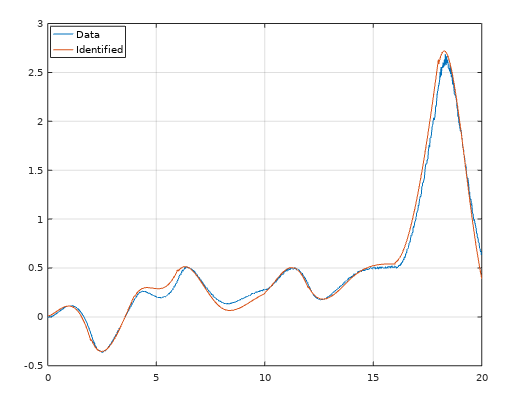
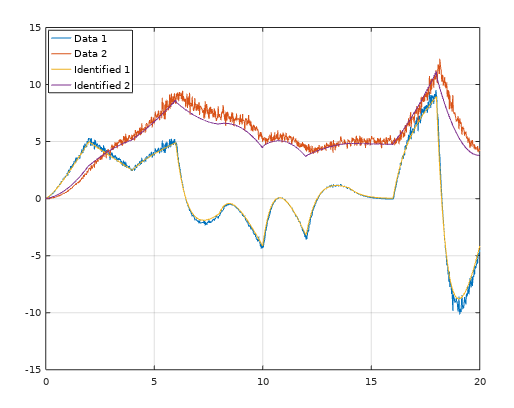
Mataveid 6.0

diff --git a/sourcecode/spa.m b/sourcecode/spa.m
@@ -38,7 +38,7 @@ function [amp, wout] = spa(varargin)
   
   plot(freq, Y)
   ylabel('Amplitude')
-  xlabel('Frequency [rad/s]')
+  xlabel('Frequency [Hz]')
   
   % Return values
   amp = 20*log10(Y);

diff --git a/README.md b/README.md
@@ -27,35 +27,45 @@ K = 0.01;
 R = 1;
 L = 0.5;
 
-A = [0 1 0
-    0 -b/J K/J
-    0 -K/L -R/L];
-B = [0 ; 0 ; 1/L];
-C = [1  0  0];
-D = [0];     
-delay = 0;
-
-%% Model
-motor_ss = ss(delay,A,B,C,D);
+% Matrix A
+A = [0 1  0  0; 
+    -K*R*L -(J+K+R*2) 0  1; 
+     0 0  0  1;
+     0 1 -(b+J) -5*(J+R*2)];
+  
+% Matrix B
+B = [0 0; 
+     1 0; 
+     0 0; 
+     0 1];
+  
+% Matrix C
+C = [0 1 0 0; 
+     0 0 1 0];
+ 
+%% Model 
+motor_ss = ss(0, A, B, C);
 
 %% Input and time
 t = linspace(0, 20, 1000);
-u = [linspace(5, -11, 100) linspace(7, 3, 100) linspace(-6, 9, 100) linspace(-7, 1, 100) linspace(2, 0, 100) linspace(6, -9, 100) linspace(4, 1, 100) linspace(0, 0, 100) linspace(10, 17, 100) linspace(-30, 0, 100)];
+u = [linspace(1, 11, 100) linspace(7, 3, 100) linspace(6, 9, 100) linspace(-7, -1, 100) linspace(2, -10, 100) linspace(6, -9, 100) linspace(4, 1, 100) linspace(0, 0, 100) linspace(10, 17, 100) linspace(-30, 0, 100)];
+u = [u;2*u]; % MIMO
 
 %% Simulation
 y = lsim(motor_ss, u, t);
 
-%% Add 5% noise
+%% Add 15% noise
 load v
-for i = 1:length(y)
-  noiseSigma = 0.05*y(i);
+for i = 1:length(y)-1
+  noiseSigma = 0.05*y(:, i);
   noise = noiseSigma*v(i); % v = noise, 1000 samples -1 to 1
-  y(i) = y(i) + noise;
+  y(:, i) = y(:, i) + noise;
 end
+
 
 %% Identification 
 regularization = 838;
-modelorder = 3;
+modelorder = 10;
 [sysd, K] = okid(u, y, t(2) - t(1), 0, regularization, modelorder);
 close
     
@@ -65,7 +75,7 @@ close
     
 %% Check
 plot(t, y, t, yt(:, 1:2:end))
-legend("Data", "Identified", 'location', 'northwest')
+legend("Data 1", "Data 2", "Identified 1", "Identified 2", 'location', 'northwest')
 grid on
 ```
 ![a](https://raw.githubusercontent.com/DanielMartensson/Mataveid/master/pictures/OKID_Result.png)
@@ -330,7 +340,7 @@ close
     
 %% Check
 plot(t, yt(1:2, 1:2:end), t, yf(1:2, :))
-legend("Data", "Identified", 'location', 'northwest')
+legend("Identified 1", "Identified 2", "Data 1", "Data 2", 'location', 'northwest')
 grid on
 ```
 
